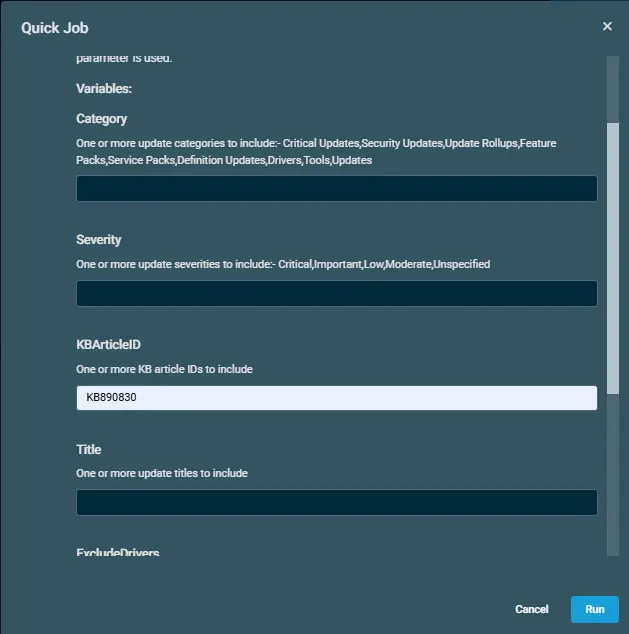
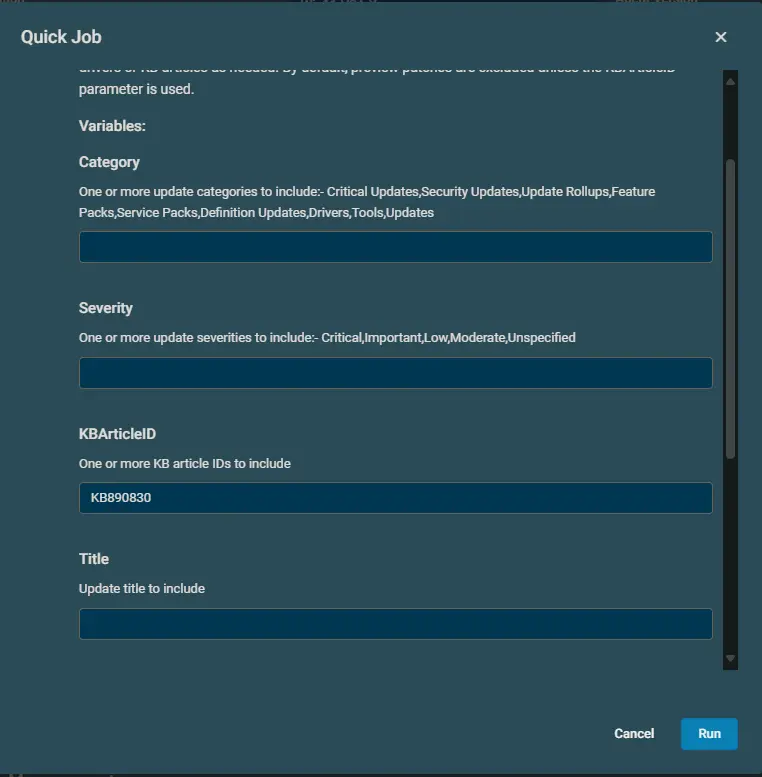
Install-WindowsUpdates
- Update PS Script document and Datto implementation

diff --git a/docs/powershell/install-windowsupdates.md b/docs/powershell/install-windowsupdates.md
@@ -160,7 +160,7 @@ Installs all available updates except preview patches, drivers, and the updates 
 | `Category`          | 'Critical Updates', 'Security Updates', 'Update Rollups', 'Feature Packs', 'Service Packs', 'Definition Updates', 'Drivers', 'Tools', 'Updates' | Category               | No       |         | String[]   | One or more update categories to include                                    |
 | `Severity`          | 'Critical', 'Important', 'Low', 'Moderate', 'Unspecified'                                        | Severity               | No       |         | String[]   | One or more update severities to include                                    |
 | `KBArticleID`       |                                                                                                  | KBArticleID            | No       |         | String[]   | One or more KB article IDs to include                                       |
-| `Title`             |                                                                                                  | Title                  | No       |         | String[]   | One or more update titles to include                                        |
+| `Title`             |                                                                                                  | Title                  | No       |         | String  | Update titles to include                                        |
 | `ExcludeDrivers`    |                                                                                                  | All, Severity          | No       | False   | Switch     | Excludes updates in the 'Drivers' category                                  |
 | `ExcludeKBArticleID`|                                                                                                  | All, Category, Severity| No       |         | String[]   | One or more KB article IDs to exclude from installation                     |
 | `AllowReboot`       |                                                                                                  | All, Category, Severity, KBArticleID | No       | False   | Switch     | Allows the computer to reboot automatically if required after updates        |

diff --git a/docs/dattormm/components/install-windowsupdates.md b/docs/dattormm/components/install-windowsupdates.md
@@ -34,6 +34,11 @@ Installing with KBArticleID
 
 ![image3](../../../static/img/docs/bd2357af-12a6-4d9b-a0b8-e4b5e71c979b/image3.webp)
 
+### Example 4
+
+Installing with Title
+
+![image3](../../../static/img/docs/bd2357af-12a6-4d9b-a0b8-e4b5e71c979b/image4.webp)
 
 ## Implementation
 
@@ -59,7 +64,7 @@ Additionally, the script provides flexibility to exclude specific KBs by using t
 | Category | String | | One or more update categories to include:- Critical Updates,Security Updates,Update Rollups,Feature Packs,Service Packs,Definition Updates,Drivers,Tools,Updates |
 | Severity | String | | One or more update severities to include:- Critical,Important,Low,Moderate,Unspecified |
 | KBArticleID | String | | One or more KB article IDs to include |
-| Title | String |  | One or more update titles to include |
+| Title | String |  | Update title to include |
 | ExcludeDrivers | Selection | False | Excludes updates in the 'Drivers' category |
 | ExcludeKBArticleID | String | | One or more KB article IDs to exclude from installation |
 | AllowReboot | Selection | False | Allows the computer to reboot automatically if required after updates |
@@ -69,5 +74,6 @@ Additionally, the script provides flexibility to exclude specific KBs by using t
 - stdOut
 - stdError
 
-## Attchments
+## Attachments
+
 [Install-WindowsUpdates](../../../static/attachments/Install-WindowsUpdates.cpt)
